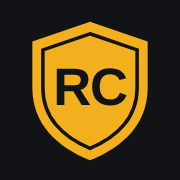
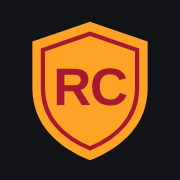
Klubbfarger: Gold #FFA326 og Red #A6192E
Claude-Session: https://claude.ai/code/session_01KZ8Z1ReCgNGQ8Lky8vRM3q

Changed region(s): [[0.2222, 0.1667, 0.7778, 0.8333]]

diff --git a/index.html b/index.html
@@ -14,13 +14,13 @@
 <link rel="icon" type="image/png" sizes="192x192" href="icon-192.png">
 <style>
 :root{color-scheme:dark;--bg:#111316;--kort:#1b1e23;--kort2:#252930;--linje:#323741;--tekst:#eceef1;--dempet:#98a1ac;
-  --aksent:#f2b01e;--aksent-t:#1a1300;--s0:#2e9e4f;--s1:#d6a915;--s2:#d43a3a;--r:12px}
+  --aksent:#ffa326;--klubb:#a6192e;--aksent-t:#1a1300;--s0:#2e9e4f;--s1:#d6a915;--s2:#d43a3a;--r:12px}
 *{box-sizing:border-box}
 html,body{margin:0;background:var(--bg);color:var(--tekst);font:16px/1.4 system-ui,-apple-system,"Segoe UI",Roboto,sans-serif;-webkit-text-size-adjust:100%}
 body{padding-bottom:calc(76px + env(safe-area-inset-bottom))}
 body.uten-nav{padding-bottom:0}
 header.topp{position:sticky;top:0;z-index:5;background:rgba(17,19,22,.94);backdrop-filter:blur(8px);-webkit-backdrop-filter:blur(8px);
-  border-bottom:1px solid var(--linje);padding:calc(10px + env(safe-area-inset-top)) 16px 10px;display:flex;align-items:center;gap:10px;min-height:56px}
+  border-bottom:3px solid var(--klubb);padding:calc(10px + env(safe-area-inset-top)) 16px 10px;display:flex;align-items:center;gap:10px;min-height:56px}
 .topp h1{font-size:17px;margin:0;font-weight:700}
 .topp .hvem{margin-left:auto;font-size:12.5px;color:var(--dempet);text-align:right;line-height:1.25}
 button.hvem{background:none;border:0;padding:4px 0 4px 8px;min-height:0;font:inherit;font-size:12.5px;display:flex;align-items:center;gap:8px;color:var(--dempet);font-weight:400}
@@ -155,7 +155,7 @@ div.logo{width:64px;height:64px;border-radius:16px;background:var(--aksent);colo
 .tommel .fjern{position:absolute;top:4px;right:4px;width:30px;height:30px;min-height:0;padding:0;border-radius:50%;background:rgba(0,0,0,.72);border:0;color:#fff;font-size:19px;line-height:1}
 img.stor{width:100%;border-radius:10px;display:block;background:#0c0e11;min-height:220px}
 /* install */
-.install{display:flex;flex-direction:column;gap:10px;margin-bottom:18px;border-color:var(--aksent);background:linear-gradient(135deg,rgba(242,176,30,.13),var(--kort) 60%)}
+.install{display:flex;flex-direction:column;gap:10px;margin-bottom:18px;border-color:var(--aksent);background:linear-gradient(135deg,rgba(255,163,38,.13),var(--kort) 60%)}
 .install p{margin:0;font-weight:600}
 .install .knapperad button{min-height:40px}
 ol.steg{padding-left:22px;margin:0 0 12px;line-height:1.5}
@@ -183,8 +183,8 @@ details.kort p{font-size:14.5px;color:#cfd3d9}
 .wpinfo{flex:1;min-width:0}
 .wpkm{font-weight:800;font-variant-numeric:tabular-nums;white-space:nowrap}
 .wpbar{height:12px;border-radius:6px;background:#0c0e11;margin:6px 0 4px;overflow:hidden}
-.wpbar span{display:block;height:100%;border-radius:6px;background:linear-gradient(90deg,#b07c0c,var(--aksent))}
-.wprad.forst .wpbar span{background:linear-gradient(90deg,var(--aksent),#ffd65a)}
+.wpbar span{display:block;height:100%;border-radius:6px;background:linear-gradient(90deg,#c4730f,var(--aksent))}
+.wprad.forst .wpbar span{background:linear-gradient(90deg,var(--aksent),#ffc46e)}
 /* season strip */
 .sesong{display:grid;grid-template-columns:repeat(7,1fr);gap:4px;margin-top:10px}
 .sesong span{display:flex;align-items:center;justify-content:center;height:28px;border-radius:6px;font-size:12px;font-weight:700;letter-spacing:.01em;background:#20242a;color:#6d7682;border:1px solid transparent}
